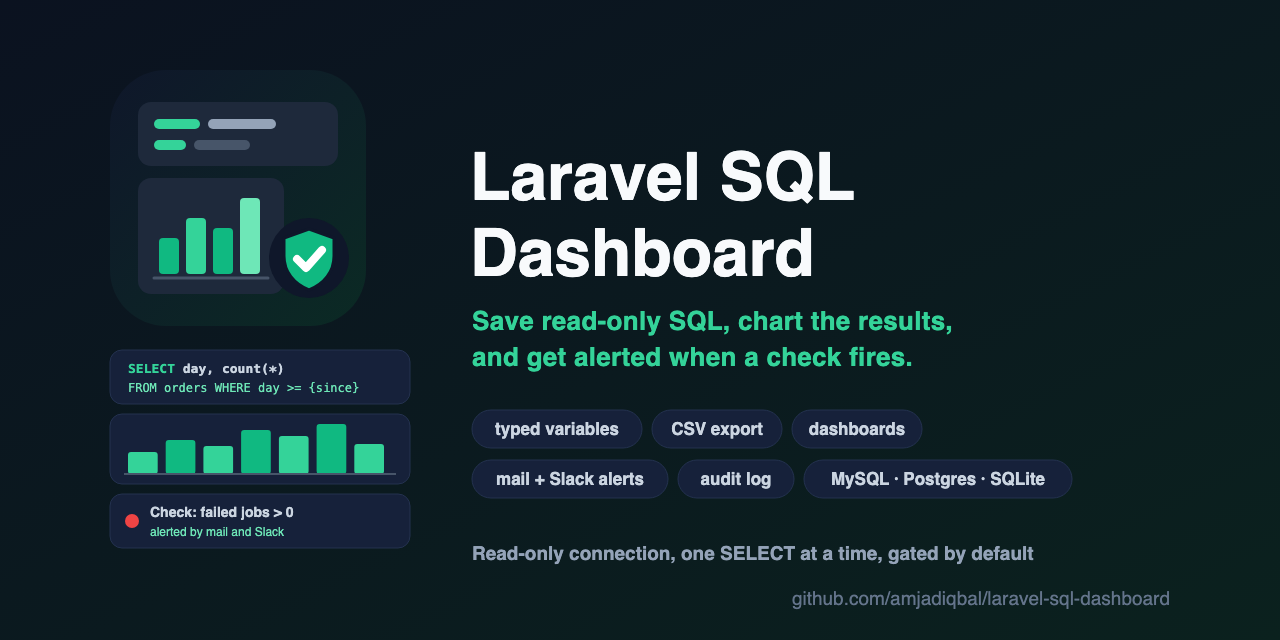
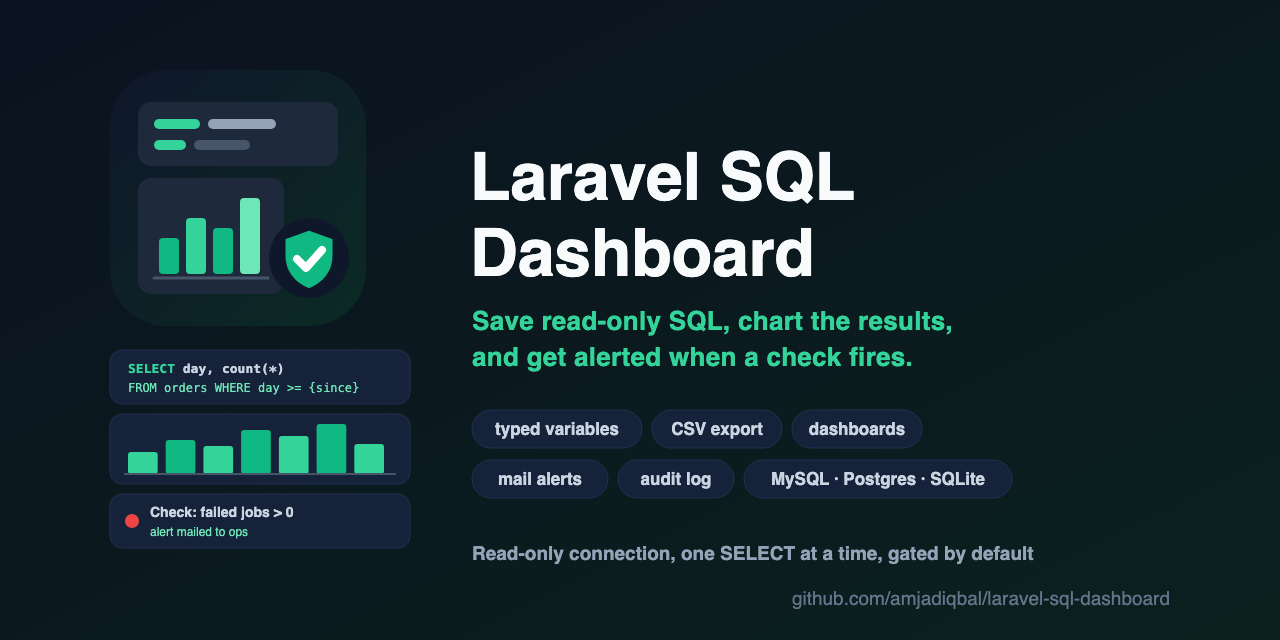
docs: mark Slack alerts untested; art says mail alerts

Changed region(s): [[0.375, 0.7188, 0.8438, 0.7812], [0.125, 0.8125, 0.2188, 0.8438]]

diff --git a/README.md b/README.md
@@ -9,8 +9,8 @@
 
 A self-hosted SQL dashboard for your Laravel app, in the spirit of Rails' Blazer. Your team saves SQL queries
 with typed variables, sees the results as a table and a line, bar or pie chart, downloads them as CSV, puts
-several on a dashboard, and gets an email or Slack message when a scheduled check returns rows or crosses a
-threshold. Every run is in an audit log with who ran it.
+several on a dashboard, and gets an email when a scheduled check returns rows or crosses a threshold
+(Slack too, untested; see below). Every run is in an audit log with who ran it.
 
 It is built to be safe to leave switched on: queries run **only on a separate read-only connection**, one
 `SELECT` or `WITH` statement at a time, inside the database's own read-only transaction, with a row limit and
@@ -39,7 +39,8 @@ Docs and demo: https://amjad.com.pk/laravel/packages/laravel-sql-dashboard
   no JavaScript library, no CDN.
 - **Dashboards** of several queries, with one form for the variables they share.
 - **Scheduled checks** every 5 minutes, hour or day: fail when the query returns any row, or when a value in
-  the first row crosses a threshold. Mail and Slack alerts when a check starts failing, passes again or errors.
+  the first row crosses a threshold. Mail alerts when a check starts failing, passes again or errors, and
+  Slack alerts (untested, see below).
 - **Audit log** of every run, export, check and refused attempt: who, when, the SQL, the variables, rows,
   time and outcome.
 - **Gates** for viewing, running and editing, closed by default outside `local`.
@@ -149,6 +150,8 @@ Checks need Laravel's scheduler, which most apps already run:
 The package schedules `sql-dashboard:run-checks` every minute (each check runs at its own interval) and
 `sql-dashboard:prune-audit` daily. For Slack, create an incoming webhook and set
 `SQL_DASHBOARD_SLACK_WEBHOOK_URL`. The webhook only comes from your environment, never from the browser.
+Slack delivery is implemented and tested only against a faked HTTP client, not a real Slack workspace yet;
+please [open an issue](https://github.com/amjadiqbal/laravel-sql-dashboard/issues) if it doesn't arrive.
 
 ## Using it
 
@@ -239,7 +242,7 @@ php artisan vendor:publish --tag=sql-dashboard-config
 | `limits.max_rows`, `limits.export_max_rows` | `1000`, `10000` | rows shown in the browser, rows in a CSV export |
 | `path`, `domain`, `middleware` | `sql-dashboard`, none, `['web']` | where the pages live; the gates always run after your middleware |
 | `schedule` | `true` | register `run-checks` (every minute) and `prune-audit` (daily) |
-| `alerts.slack_webhook_url` | `SQL_DASHBOARD_SLACK_WEBHOOK_URL` | Slack incoming webhook |
+| `alerts.slack_webhook_url` | `SQL_DASHBOARD_SLACK_WEBHOOK_URL` | Slack incoming webhook (untested against real Slack) |
 | `alerts.mail_domains` | `[]` (any) | e.g. `['acme.com']` to keep alert mail inside the company |
 | `intervals` | 5 minutes, hourly, daily | the check schedules people can pick |
 | `audit.retention_days` | `90` | `null` keeps the audit log forever |

diff --git a/CHANGELOG.md b/CHANGELOG.md
@@ -3,6 +3,12 @@
 All notable changes to `laravel-sql-dashboard` are documented here. The format follows
 [Keep a Changelog](https://keepachangelog.com/en/1.1.0/) and the project uses [Semantic Versioning](https://semver.org/).
 
+## [Unreleased]
+
+### Changed
+- Docs and art: Slack alerts are marked untested (tested only against a faked HTTP client); the art now says
+  "mail alerts".
+
 ## [0.1.0] - 2026-10-23
 
 First release.
